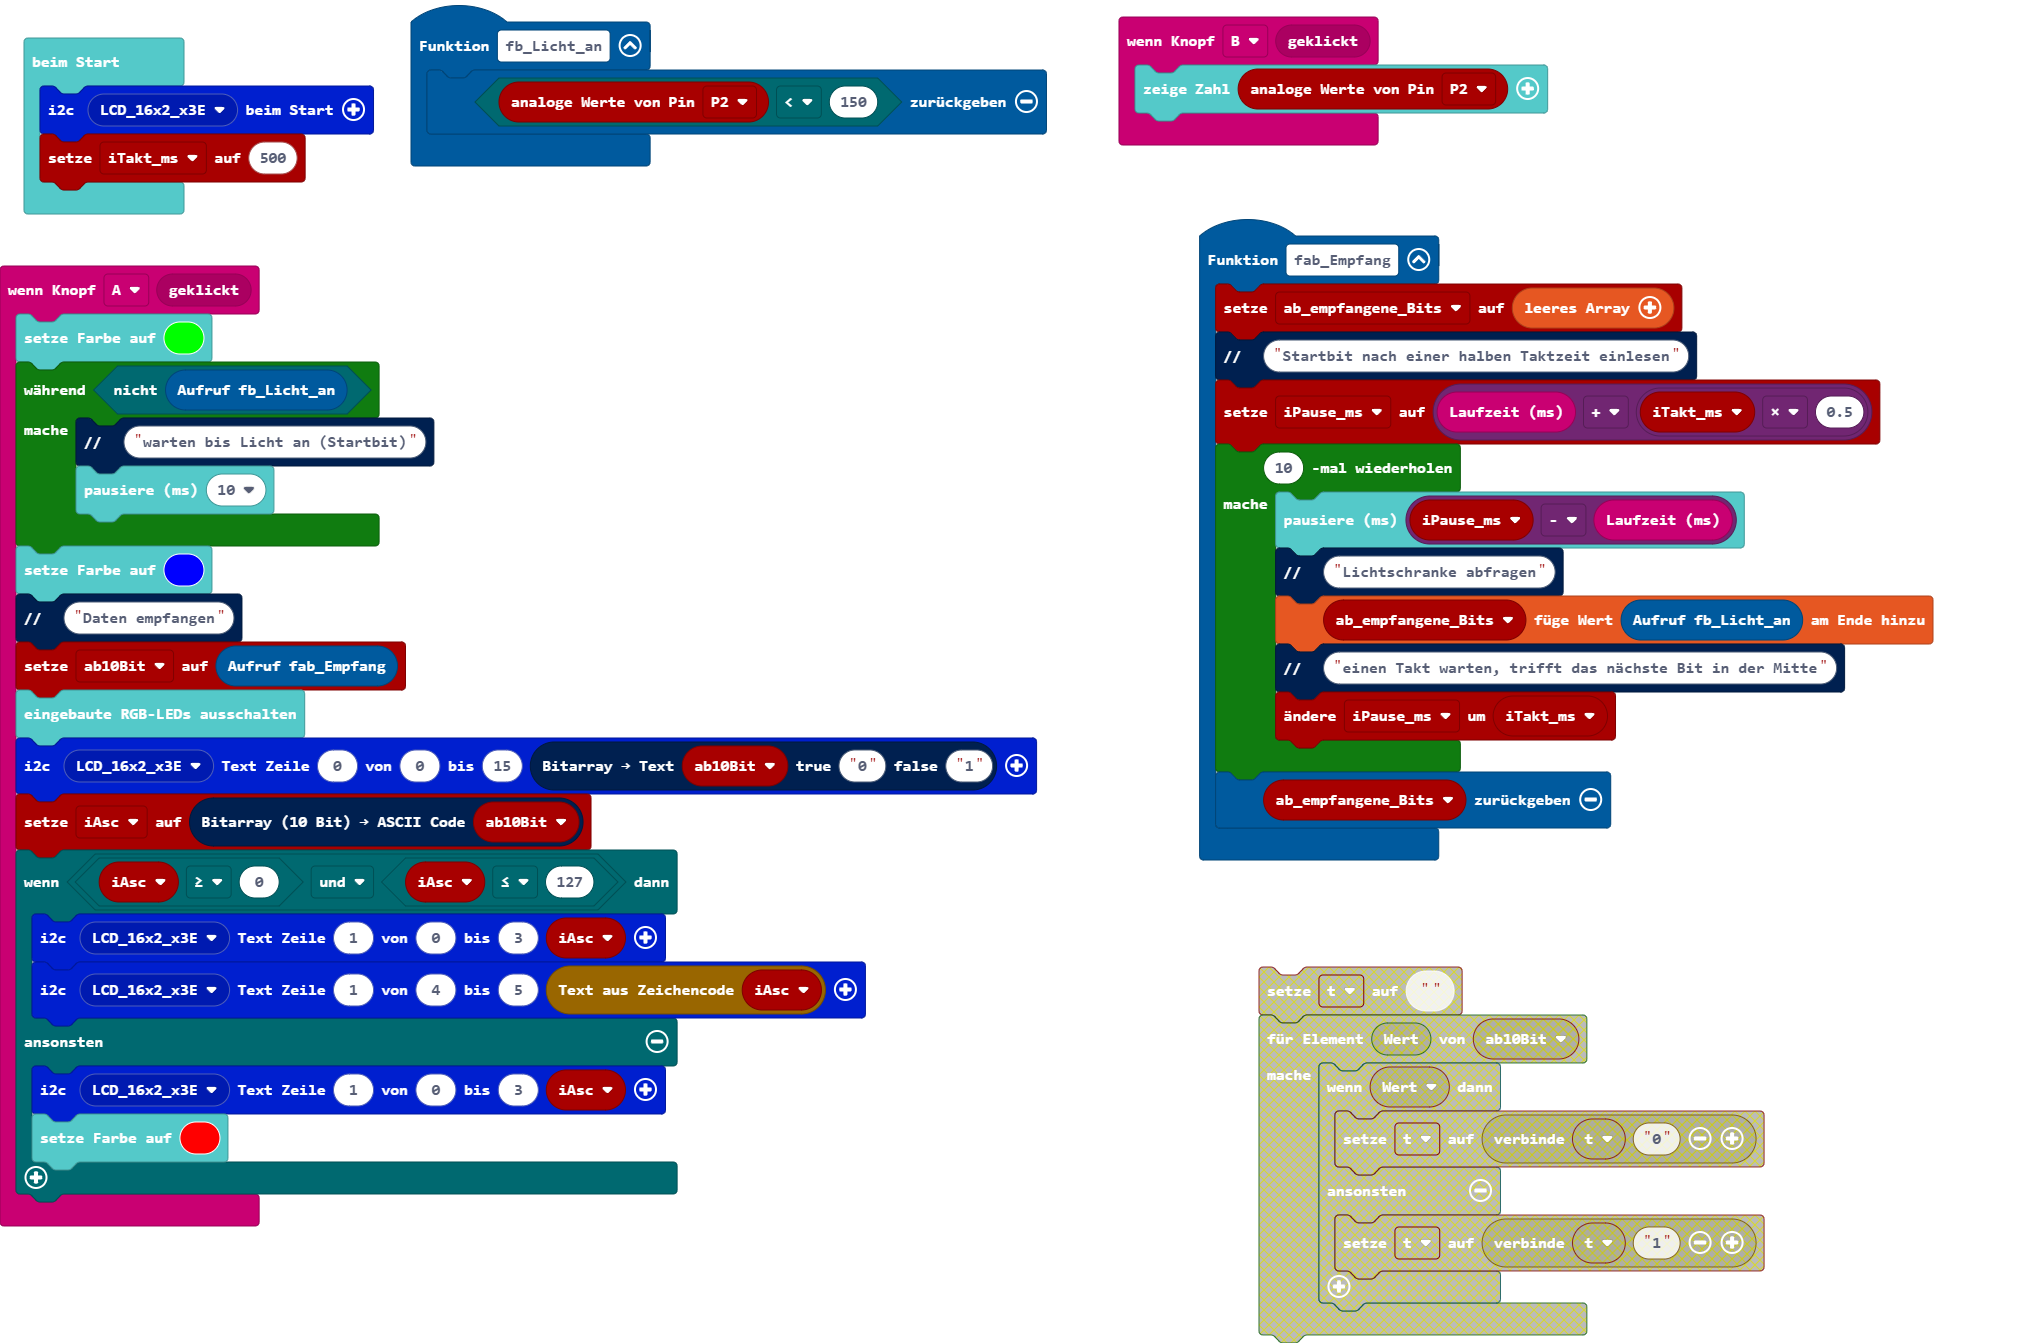
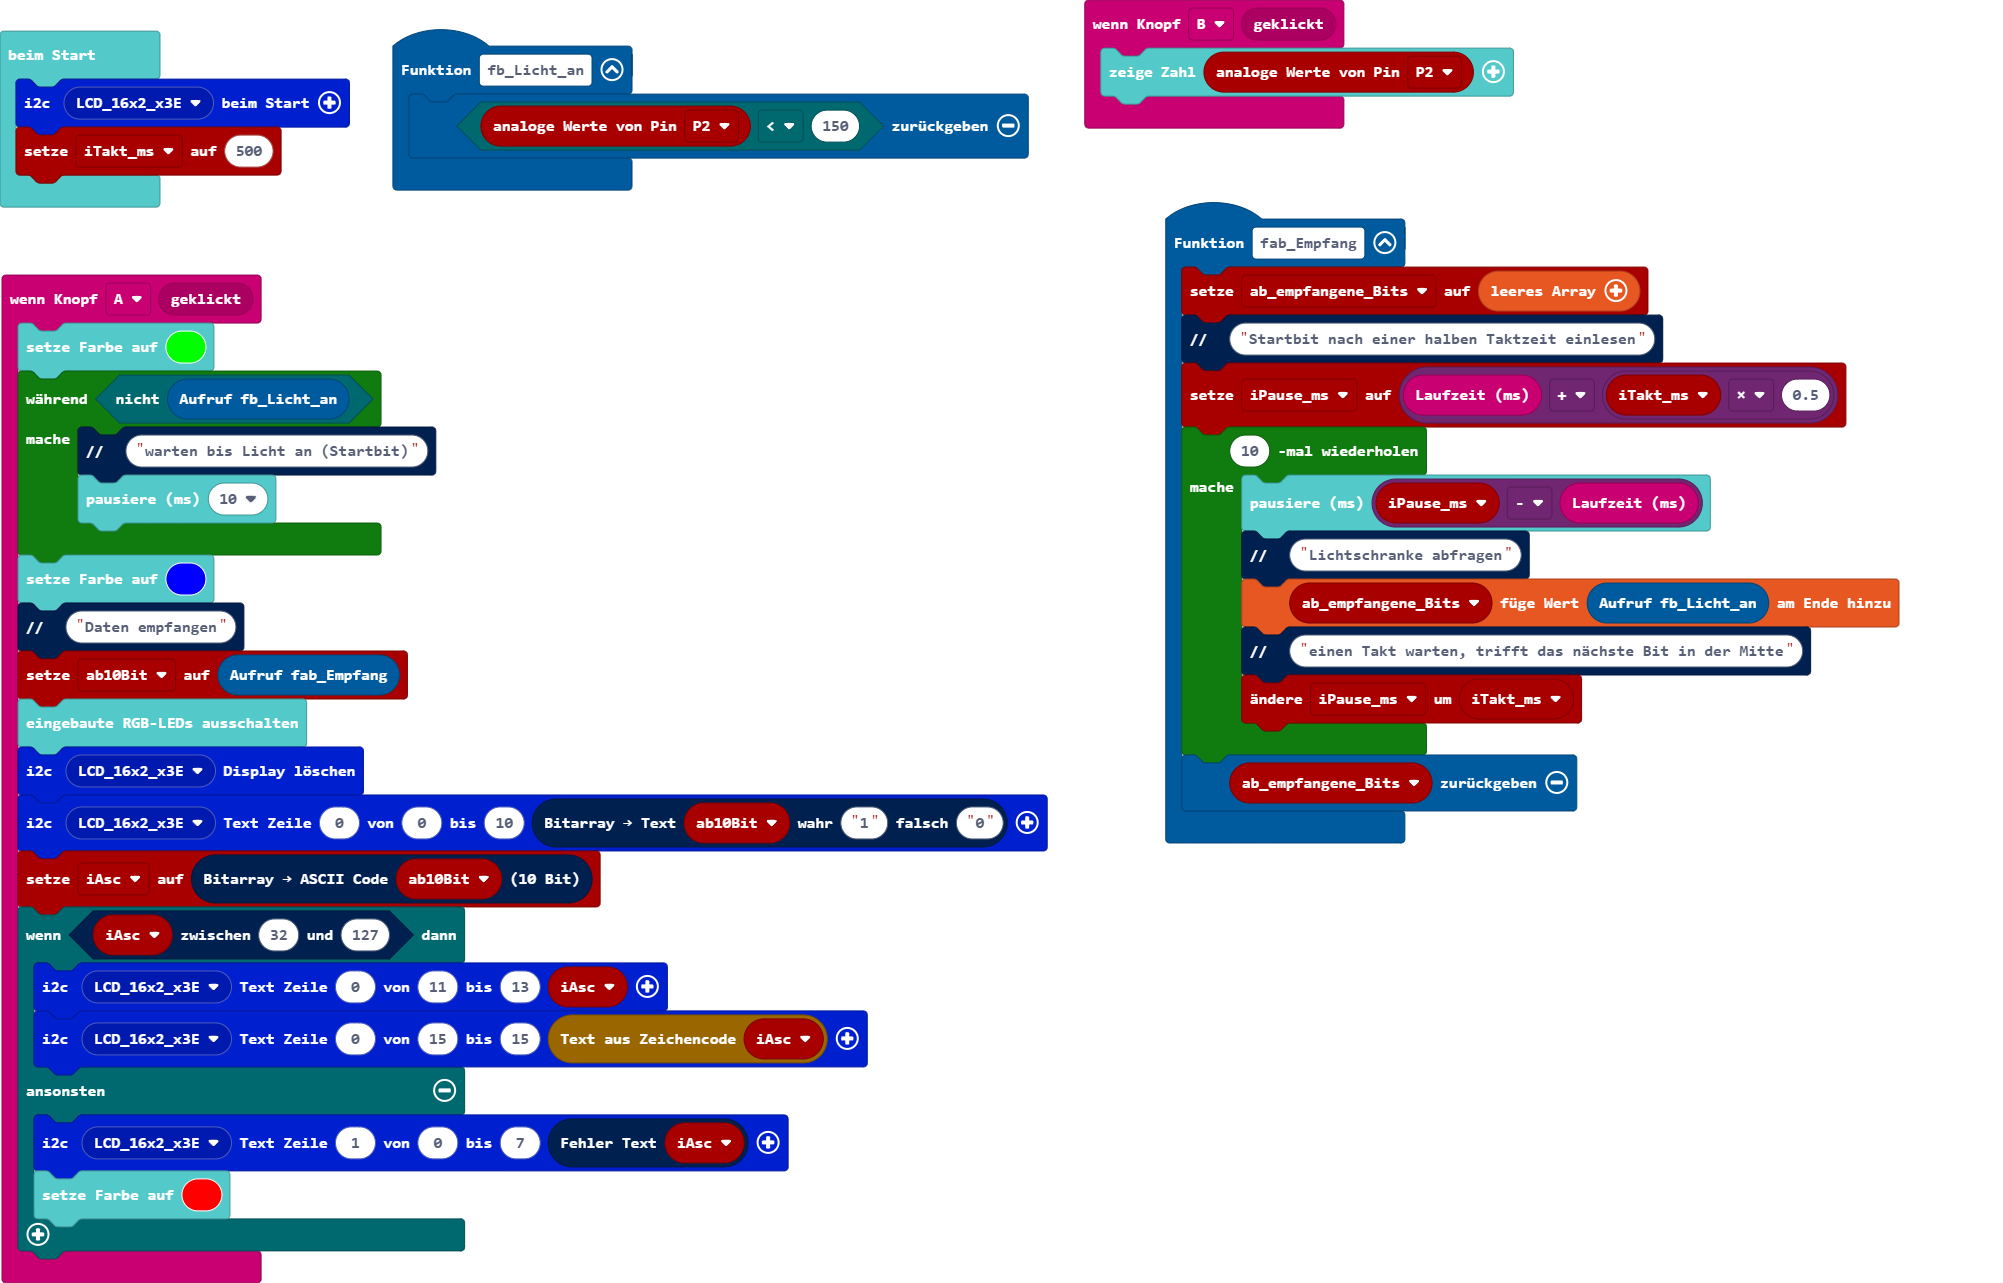
Aktualisiere main.blocks, main.ts, rs232.ts

diff --git a/rs232.ts b/rs232.ts
@@ -8,25 +8,10 @@ namespace rs232
 */ {
 
 
-    //% group="Anzeige"
-    //% block="Bitarray → Text %bitArray true %s1 false %s0" weight=2
-    export function bin_toString(bitArray: boolean[], s1?: string, s0?: string): String {
-        let s = ""
-        for (let bit of bitArray) {
-            s = s + (bit ? s1 : s0)
-           /*  if (bit)
-                s = s + "0"
-            else
-                s = s + "1" */
-        }
-        return s
-    }
-
-
     // ========== group="Empfang"
 
     //% group="Empfang"
-    //% block="Bitarray (10 Bit) → ASCII Code %bitArray" weight=2
+    //% block="Bitarray → ASCII Code %bitArray (10 Bit)" weight=2
     export function bin_toAsc(bitArray: boolean[]) {
         let iDez = 0, iParity = 0, iFehler = 0
         let iExp = 1
@@ -71,10 +56,44 @@ namespace rs232
     }
 
 
-    // ========== group="Kommentar" advanced=true
 
-    //% group="Kommentar" advanced=true
-    //% block="// %text"
+    // ========== group="Anzeige"
+
+    //% group="Anzeige"
+    //% block="Bitarray → Text %bitArray wahr %s1 falsch %s0" weight=3
+    // s1.defl="1" s0.defl="0"
+    //% expandableArgumentMode="toggle"
+    export function bin_toString(bitArray: boolean[], s1: string, s0: string): String {
+        let s = ""
+        for (let bit of bitArray)
+            s = s + (bit ? s1 : s0)
+        return s
+    }
+
+    //% group="Anzeige"
+    //% block="Fehler Text %fehlerCode" weight=2
+    export function fehlerText(fehlerCode: number): string {
+        switch (fehlerCode) {
+            case -1: return "<10 Bit"
+            case -2: return "Start"
+            case -3: return "Parity"
+            case -4: return "Stop"
+            default: return fehlerCode.toString()
+        }
+    }
+
+
+
+    // ========== group="Funktionen"
+
+    //% group="Funktionen" 
+    //% block="// %text" weight=6
     export function comment(text: string): void { }
+
+    //% group="Funktionen"
+    //% block="%i0 zwischen %i1 und %i2" weight=4
+    export function between(i0: number, i1: number, i2: number): boolean {
+        return (i0 >= i1 && i0 <= i2)
+    }
 
 } // rs232.ts

diff --git a/main.ts b/main.ts
@@ -21,13 +21,14 @@ input.onButtonEvent(Button.A, input.buttonEventClick(), function () {
     rs232.comment("Daten empfangen")
     ab10Bit = fab_Empfang()
     basic.turnRgbLedOff()
-    lcd16x2rgb.writeText(lcd16x2rgb.lcd16x2_eADDR(lcd16x2rgb.eADDR_LCD.LCD_16x2_x3E), 0, 0, 15, rs232.bin_toString(ab10Bit, "0", "1"))
+    lcd16x2rgb.clearScreen(lcd16x2rgb.lcd16x2_eADDR(lcd16x2rgb.eADDR_LCD.LCD_16x2_x3E))
+    lcd16x2rgb.writeText(lcd16x2rgb.lcd16x2_eADDR(lcd16x2rgb.eADDR_LCD.LCD_16x2_x3E), 0, 0, 10, rs232.bin_toString(ab10Bit, "1", "0"))
     iAsc = rs232.bin_toAsc(ab10Bit)
-    if (iAsc >= 0 && iAsc <= 127) {
-        lcd16x2rgb.writeText(lcd16x2rgb.lcd16x2_eADDR(lcd16x2rgb.eADDR_LCD.LCD_16x2_x3E), 1, 0, 3, iAsc)
-        lcd16x2rgb.writeText(lcd16x2rgb.lcd16x2_eADDR(lcd16x2rgb.eADDR_LCD.LCD_16x2_x3E), 1, 4, 5, String.fromCharCode(iAsc))
+    if (rs232.between(iAsc, 32, 127)) {
+        lcd16x2rgb.writeText(lcd16x2rgb.lcd16x2_eADDR(lcd16x2rgb.eADDR_LCD.LCD_16x2_x3E), 0, 11, 13, iAsc)
+        lcd16x2rgb.writeText(lcd16x2rgb.lcd16x2_eADDR(lcd16x2rgb.eADDR_LCD.LCD_16x2_x3E), 0, 15, 15, String.fromCharCode(iAsc))
     } else {
-        lcd16x2rgb.writeText(lcd16x2rgb.lcd16x2_eADDR(lcd16x2rgb.eADDR_LCD.LCD_16x2_x3E), 1, 0, 3, iAsc)
+        lcd16x2rgb.writeText(lcd16x2rgb.lcd16x2_eADDR(lcd16x2rgb.eADDR_LCD.LCD_16x2_x3E), 1, 0, 7, rs232.fehlerText(iAsc))
         basic.setLedColor(0xff0000)
     }
 })
